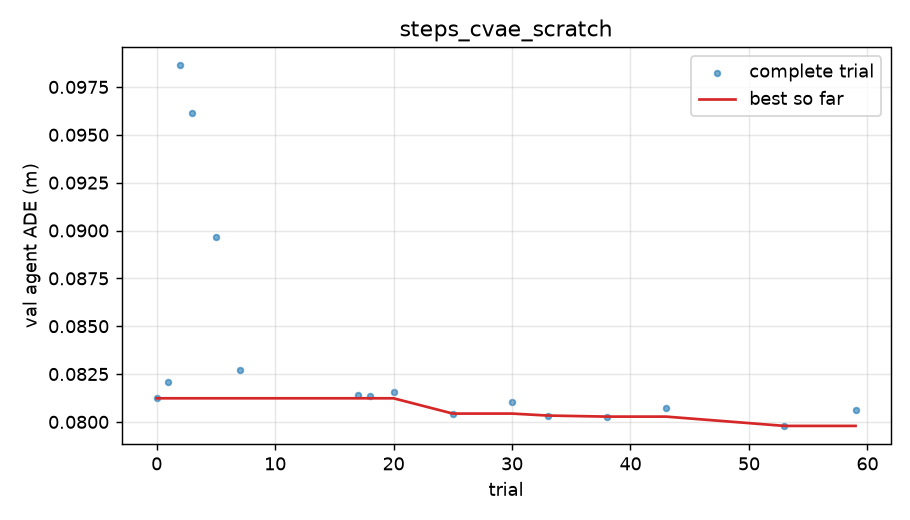
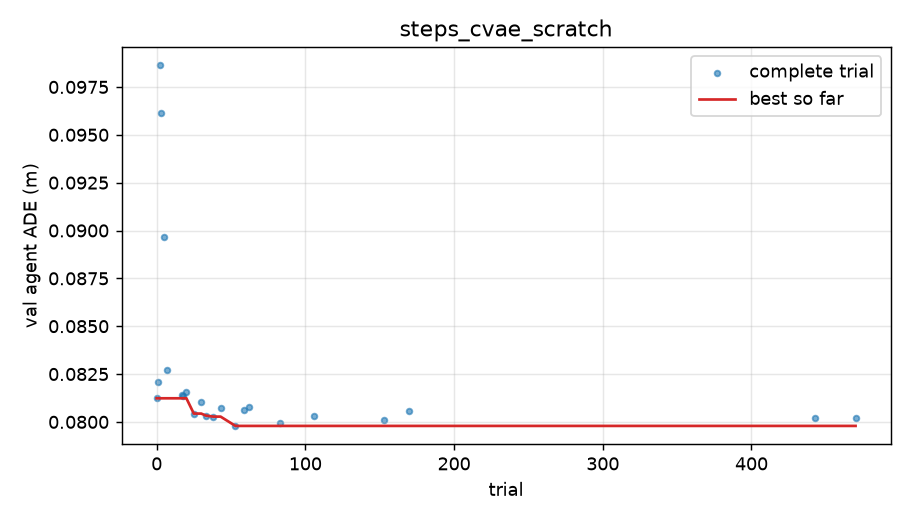
Final scratch Optuna report; log decision 61

diff --git a/docs/results/hpo_steps_cvae_scratch.md b/docs/results/hpo_steps_cvae_scratch.md
@@ -1,33 +1,33 @@
 # Optuna study `steps_cvae_scratch`
 
-73 trials: 16 complete, 53 pruned. Objective: validation macro agent ADE (best-of-K, K from the study command), lower is better.
+475 trials: 23 complete, 452 pruned. Objective: validation macro agent ADE (best-of-K, K from the study command), lower is better.
 
 ## Top 8 trials
 
 | trial | value | cvae_latent_dim | decoder_dropout | decoder_hidden_dim | dropout | hidden_dim | kl_weight | knn | learning_rate | max_nodes | representation | warmup_epochs | weight_decay |
 | ---: | ---: | --- | --- | --- | --- | --- | --- | --- | --- | --- | --- | --- | --- |
 | 53 | 0.0798 | 64 | 0.0633 | 512 | 0.0905 | 128 | 0.0799 | 24 | 0.000963 | 4096 | hidden | 4.31 | 0.00217 |
+| 83 | 0.0800 | 8 | 0.0679 | 512 | 0.154 | 128 | 0.0631 | 24 | 0.000761 | 4096 | hidden | 0.542 | 9.49e-05 |
+| 153 | 0.0801 | 8 | 0.0791 | 512 | 0.0334 | 128 | 0.0671 | 24 | 0.00101 | 4096 | hidden | 0.529 | 0.000289 |
+| 470 | 0.0802 | 64 | 0.0329 | 512 | 0.244 | 128 | 0.077 | 16 | 0.000835 | 4096 | hidden | 1.78 | 0.00143 |
+| 443 | 0.0802 | 64 | 0.00761 | 512 | 0.159 | 128 | 0.0601 | 16 | 0.0015 | 4096 | hidden | 2.78 | 0.0068 |
 | 38 | 0.0803 | 64 | 0.0119 | 512 | 0.152 | 128 | 0.0741 | 16 | 0.00103 | 4096 | hidden | 4.23 | 0.00181 |
+| 106 | 0.0803 | 8 | 0.0177 | 512 | 0.0595 | 128 | 0.0854 | 16 | 0.00107 | 4096 | hidden | 3.45 | 6.35e-06 |
 | 33 | 0.0803 | 8 | 0.236 | 512 | 0.17 | 128 | 0.0687 | 16 | 0.000668 | 4096 | hidden | 3.06 | 0.000162 |
-| 25 | 0.0804 | 8 | 0.121 | 512 | 0.16 | 128 | 0.0796 | 16 | 0.000633 | 4096 | hidden | 1.99 | 5.85e-05 |
-| 59 | 0.0806 | 16 | 0.299 | 512 | 0.0605 | 128 | 0.0781 | 16 | 0.000983 | 4096 | mu | 3.99 | 0.000607 |
-| 43 | 0.0807 | 16 | 0.244 | 512 | 0.183 | 128 | 0.0862 | 16 | 0.00116 | 4096 | mu | 2.36 | 0.000256 |
-| 30 | 0.0811 | 64 | 0.0333 | 512 | 0.0944 | 128 | 0.139 | 16 | 0.000706 | 4096 | hidden | 3.97 | 3.76e-05 |
-| 0 | 0.0812 | 8 | 0.119 | 512 | 0.0594 | 128 | 0.115 | 16 | 0.000413 | 4096 | mu | 3.58 | 3.86e-06 |
 
 ## Parameter importance (fANOVA)
 
 | parameter | importance |
 | --- | ---: |
-| kl_weight | 0.577 |
-| dropout | 0.190 |
-| warmup_epochs | 0.047 |
-| max_nodes | 0.038 |
-| decoder_hidden_dim | 0.032 |
-| decoder_dropout | 0.028 |
-| weight_decay | 0.026 |
-| knn | 0.022 |
-| learning_rate | 0.021 |
-| cvae_latent_dim | 0.016 |
+| kl_weight | 0.521 |
+| dropout | 0.215 |
+| max_nodes | 0.078 |
+| learning_rate | 0.061 |
+| cvae_latent_dim | 0.044 |
+| decoder_hidden_dim | 0.037 |
+| weight_decay | 0.033 |
 | representation | 0.004 |
-| hidden_dim | 0.000 |
+| decoder_dropout | 0.004 |
+| knn | 0.002 |
+| hidden_dim | 0.001 |
+| warmup_epochs | 0.000 |

diff --git a/docs/decisions.md b/docs/decisions.md
@@ -630,3 +630,10 @@ why, and how to undo it.
     - **How it will be judged:** per-dataset test ADE, teacher-forced and at exec 1, against the
       table in `stars_ma_all_test.md`. Closed-loop training did not help on STEPS (47), where
       compounding error was already small, so it gets a fair test only on these datasets.
+
+61. **The scratch Optuna search has converged** (`docs/results/hpo_steps_cvae_scratch.md`). After 475
+    trials (23 complete, 452 pruned by the median pruner), trial 53 is still the best (0.0798 m
+    validation ADE). The top eight trials are within 0.0005 m of each other, which is below seed
+    noise (about 0.0007 m, decision 44). KL weight (52%) and encoder dropout (22%) explain most
+    of the variance. No further search on STEPS with this search space: remaining gains have to
+    come from data, schedule (60) or architecture, not from these hyperparameters.
